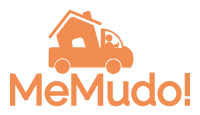
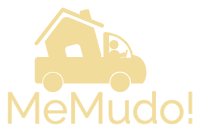
Cambiando colores v1

diff --git a/src/pages/HomeOferente/HomeOferente.jsx b/src/pages/HomeOferente/HomeOferente.jsx
@@ -190,7 +190,7 @@ export default function Empresa(){
                     </div>
                 </div>
 
-                <div style={{display:"flex",borderRadius:"5px",backgroundColor:"#A6836F",flexDirection:"column",margin:"20px",alignItems:"flex-start",height:"60vh",width:"60vw", boxSizing:"border-box"}}>
+                <div style={{display:"flex",borderRadius:"5px",backgroundColor:"#5B5772",flexDirection:"column",margin:"20px",alignItems:"flex-start",height:"60vh",width:"60vw", boxSizing:"border-box"}}>
                     <div style={{display:"flex", flexDirection:"row", minWidth:"100%", minHeight:"20%"}}>
                         <CheckCircleIcon style={{color:"#F2DC9B",fontSize:35}}></CheckCircleIcon> <div style={{color:"white",fontSize:30}}>Caracteristicas</div>
                     </div>
@@ -198,30 +198,30 @@ export default function Empresa(){
                         <Box sx={{ flexGrow: 1 }}>
                             <Grid container spacing={3}>
                                 <Grid item xs={8}>
-                                    <Item style={{backgroundColor:"#F2DC9B"}}>Caracteristica 1</Item>
+                                    <Item style={{backgroundColor:"#D9D9D9"}}>Caracteristica 1</Item>
                                 </Grid>
                                 <Grid item xs={4}>
-                                    <Item style={{backgroundColor:"#F2DC9B"}}>Caracteristica 2</Item>
+                                    <Item style={{backgroundColor:"#D9D9D9"}}>Caracteristica 2</Item>
                                 </Grid>
                                 <Grid item xs={4}>
-                                    <Item style={{backgroundColor:"#F2DC9B"}}>Caracteristica 3</Item>
+                                    <Item style={{backgroundColor:"#D9D9D9"}}>Caracteristica 3</Item>
                                 </Grid>
                                 <Grid item xs={4}>
-                                    <Item style={{backgroundColor:"#F2DC9B"}}>Caracteristica 4</Item>
+                                    <Item style={{backgroundColor:"#D9D9D9"}}>Caracteristica 4</Item>
                                 </Grid>
                                 <Grid item xs={4}>
-                                    <Item style={{backgroundColor:"#F2DC9B"}}>Caracteristica 5</Item>
+                                    <Item style={{backgroundColor:"#D9D9D9"}}>Caracteristica 5</Item>
                                 </Grid>
                                 <Grid item xs="auto">
-                                    <Item style={{backgroundColor:"#F2DC9B"}}>Caracteristica 3</Item>
+                                    <Item style={{backgroundColor:"#D9D9D9"}}>Caracteristica 3</Item>
                                 </Grid>
                                 <Grid item xs= {8}>
-                                    <Item style={{backgroundColor:"#F2DC9B"}}>Caracteristica 3</Item>
+                                    <Item style={{backgroundColor:"#D9D9D9"}}>Caracteristica 3</Item>
                                 </Grid>
                             </Grid>
                         </Box>
                     </div>
-                    <div style={{display:"flex",minWidth:"100%", minHeight:"20%", justifyContent:"end", alignItems:"center", boxSizing:"border-box", paddingRight:"10px"}}><Button variant="contained" style={{backgroundColor:"#FD841F"}} size="large" endIcon={<EditIcon />} onClick={handleClickOpenEditar}>Editar</Button></div>
+                    <div style={{display:"flex",minWidth:"100%", minHeight:"20%", justifyContent:"end", alignItems:"center", boxSizing:"border-box", paddingRight:"10px"}}><Button variant="contained" style={{backgroundColor:"#F7D794", color:"black"}} size="large" endIcon={<EditIcon />} onClick={handleClickOpenEditar}>Editar</Button></div>
                     <Dialog open={openEditar} onClose={handleCloseEditar} maxWidth="sm">
                         <DialogTitle>Editar informacion de la empresa</DialogTitle>
                         <DialogContent>
@@ -338,28 +338,28 @@ export default function Empresa(){
                     </Dialog>
                 </div>
             </div>
-            <div style={{display:"flex",margin:"20px",backgroundColor:"#A6836F",justifyContent:"center",alignItems:"center",width:"90vw",height:150,borderRadius:"5px",color:"white",fontSize:40}} >
+            <div style={{display:"flex",margin:"20px",backgroundColor:"#5B5772",justifyContent:"center",alignItems:"center",width:"90vw",height:150,borderRadius:"5px",color:"white",fontSize:40}} >
                 Descripcion de la empresa
             </div>
             <div style={{display:"flex",flexDirection:"row",justifyContent:"center",flexWrap:"wrap",alignItems:"center", marginLeft:"30px"}}>
-                <div style={{display:"flex",backgroundColor:"#F2DC9B",width:600,height:250,borderRadius:"5px",margin:"20px",flexDirection:"row",justifyContent:"space-between",}} >
+                <div style={{display:"flex",backgroundColor:"#8D8D9B",width:600,height:250,borderRadius:"5px",margin:"20px",flexDirection:"row",justifyContent:"space-between",}} >
                 <AccountCircleIcon style={{color:"red",fontSize:50}}></AccountCircleIcon>
                 <Rating/>
                 </div>
-                <div style={{display:"flex",backgroundColor:"#F2DC9B",width:600,height:250,borderRadius:"5px",margin:"20px",flexDirection:"row",justifyContent:"space-between",}} >
+                <div style={{display:"flex",backgroundColor:"#8D8D9B",width:600,height:250,borderRadius:"5px",margin:"20px",flexDirection:"row",justifyContent:"space-between",}} >
                 <AccountCircleIcon style={{color:"red",fontSize:50}}></AccountCircleIcon>
                 <Rating/>
                 </div>
-                <div style={{display:"flex",backgroundColor:"#F2DC9B",width:600,height:250,borderRadius:"5px",margin:"20px",flexDirection:"row",justifyContent:"space-between",}} >
+                <div style={{display:"flex",backgroundColor:"#8D8D9B",width:600,height:250,borderRadius:"5px",margin:"20px",flexDirection:"row",justifyContent:"space-between",}} >
                 <AccountCircleIcon style={{color:"red",fontSize:50}}></AccountCircleIcon>
                 <Rating/>
                 </div>
-                <div style={{display:"flex",backgroundColor:"#F2DC9B",width:600,height:250,borderRadius:"5px",margin:"20px",flexDirection:"row",justifyContent:"space-between",}} >
+                <div style={{display:"flex",backgroundColor:"#8D8D9B",width:600,height:250,borderRadius:"5px",margin:"20px",flexDirection:"row",justifyContent:"space-between",}} >
                 <AccountCircleIcon style={{color:"red",fontSize:50}}></AccountCircleIcon>
                 <Rating/>
                 </div>
             </div>
-            <div style={{display:"flex",backgroundColor:"#A6836F",margin:"20px",width:"90vw",height:150,borderRadius:"5px",color:"white",flexDirection:"row",alignItems:"center",justifyContent:"space-evenly",}} >
+            <div style={{display:"flex",backgroundColor:"#5B5772",margin:"20px",width:"90vw",height:150,borderRadius:"5px",color:"white",flexDirection:"row",alignItems:"center",justifyContent:"space-evenly",}} >
                 <div><PhoneIcon/>Telefono</div>
                 <div><HomeIcon/>Direccion</div>
                 <div><MailIcon/>Mail</div>

diff --git a/src/pages/InfoEmpresa/InfoEmpresa.jsx b/src/pages/InfoEmpresa/InfoEmpresa.jsx
@@ -249,7 +249,7 @@ export default function Empresa(){
                     </div>
                 </div>
 
-                <div style={{display:"flex",borderRadius:"5px",backgroundColor:"#A6836F",flexDirection:"column",margin:"20px",alignItems:"flex-start",height:"60vh",width:"60vw", boxSizing:"border-box"}}>
+                <div style={{display:"flex",borderRadius:"5px",backgroundColor:"#5B5772",flexDirection:"column",margin:"20px",alignItems:"flex-start",height:"60vh",width:"60vw", boxSizing:"border-box"}}>
                     <div style={{display:"flex", flexDirection:"row", minWidth:"100%", minHeight:"20%"}}>
                         <CheckCircleIcon style={{color:"#F2DC9B",fontSize:35}}></CheckCircleIcon> <div style={{color:"white",fontSize:30}}>Caracteristicas</div>
                     </div>
@@ -257,32 +257,32 @@ export default function Empresa(){
                     <Box sx={{ flexGrow: 1 }}>
                             <Grid container spacing={3}>
                                 <Grid item xs={8}>
-                                    <Item style={{backgroundColor:"#F2DC9B"}}>Caracteristica 1</Item>
+                                    <Item style={{backgroundColor:"#D9D9D9", color:"black"}}>Caracteristica 1</Item>
                                 </Grid>
                                 <Grid item xs={4}>
-                                    <Item style={{backgroundColor:"#F2DC9B"}}>Caracteristica 2</Item>
+                                    <Item style={{backgroundColor:"#D9D9D9", color:"black"}}>Caracteristica 2</Item>
                                 </Grid>
                                 <Grid item xs={4}>
-                                    <Item style={{backgroundColor:"#F2DC9B"}}>Caracteristica 3</Item>
+                                    <Item style={{backgroundColor:"#D9D9D9", color:"black"}}>Caracteristica 3</Item>
                                 </Grid>
                                 <Grid item xs={4}>
-                                    <Item style={{backgroundColor:"#F2DC9B"}}>Caracteristica 4</Item>
+                                    <Item style={{backgroundColor:"#D9D9D9", color:"black"}}>Caracteristica 4</Item>
                                 </Grid>
                                 <Grid item xs={4}>
-                                    <Item style={{backgroundColor:"#F2DC9B"}}>Caracteristica 5</Item>
+                                    <Item style={{backgroundColor:"#D9D9D9", color:"black"}}>Caracteristica 5</Item>
                                 </Grid>
                                 <Grid item xs="auto">
-                                    <Item style={{backgroundColor:"#F2DC9B"}}>Caracteristica 3</Item>
+                                    <Item style={{backgroundColor:"#D9D9D9", color:"black"}}>Caracteristica 3</Item>
                                 </Grid>
                                 <Grid item xs= {8}>
-                                    <Item style={{backgroundColor:"#F2DC9B"}}>Caracteristica 3</Item>
+                                    <Item style={{backgroundColor:"#D9D9D9", color:"black"}}>Caracteristica 3</Item>
                                 </Grid>
                             </Grid>
                         </Box>
                     </div>
                     <div style={{minWidth:"100%", minHeight:"20%", boxSizing:"border-box", display:"flex", flexDirection:"row", justifyContent:"end"}}>
-                        <div style={{display:"flex",minWidth:"20%", minHeight:"10%", justifyContent:"end", alignItems:"center", boxSizing:"border-box", paddingRight:"10px"}}><Button variant="contained" style={{backgroundColor:"#FD841F"}} size="large" endIcon={<AttachMoneyIcon />} onClick={toggleDrawer('bottom', true)}>Simular costos</Button></div>
-                        <div style={{display:"flex",minWidth:"20%", minHeight:"10%", justifyContent:"end", alignItems:"center", boxSizing:"border-box", paddingRight:"10px"}}><Button variant="contained" style={{backgroundColor:"#FD841F"}} size="large" endIcon={<AddShoppingCartIcon /> } onClick={handleClickOpenContratar}>Contratar</Button></div>
+                        <div style={{display:"flex",minWidth:"20%", minHeight:"10%", justifyContent:"end", alignItems:"center", boxSizing:"border-box", paddingRight:"10px"}}><Button variant="contained" style={{backgroundColor:"#F7D794", color:"black"}} size="large" endIcon={<AttachMoneyIcon />} onClick={toggleDrawer('bottom', true)}>Simular costos</Button></div>
+                        <div style={{display:"flex",minWidth:"20%", minHeight:"10%", justifyContent:"end", alignItems:"center", boxSizing:"border-box", paddingRight:"10px"}}><Button variant="contained" style={{backgroundColor:"#F7D794", color:"black"}} size="large" endIcon={<AddShoppingCartIcon /> } onClick={handleClickOpenContratar}>Contratar</Button></div>
                         <Dialog
                             fullScreen={fullScreen}
                             open={openContratar}
@@ -312,7 +312,7 @@ export default function Empresa(){
 
             </div>
 
-            <div style={{display:"flex",margin:"20px",backgroundColor:"#A6836F",justifyContent:"center",alignItems:"center",width:"90vw",height:150,borderRadius:"5px",color:"white",fontSize:40}} >
+            <div style={{display:"flex",margin:"20px",backgroundColor:"#5B5772",justifyContent:"center",alignItems:"center",width:"90vw",height:150,borderRadius:"5px",color:"white",fontSize:40}} >
             {location.state.descripcion}
             </div>
             <div style={{display:"flex",flexDirection:"row",justifyContent:"flex-start",flexWrap:"wrap",alignItems:"center", marginLeft:"30px"}}>
@@ -323,7 +323,7 @@ export default function Empresa(){
                 <Comentario usuario="Gabriel Torres" texto="Despues de Cordanzas, considero que esta es la mejor empresa para hacer una mudanza." puntuacion={4}/>
                 <Comentario usuario="Franco Vercesi" texto="Me sorprende ver tantos comentarios positivos. En mi caso no fue una experiencia tan amena. Quizás no era su día." puntuacion={2}/>
             </div>
-            <div style={{display:"flex",backgroundColor:"#A6836F",margin:"20px",width:"90vw",height:150,borderRadius:"5px",color:"white",flexDirection:"row",alignItems:"center",justifyContent:"space-evenly",}} >
+            <div style={{display:"flex",backgroundColor:"#5B5772",margin:"20px",width:"90vw",height:150,borderRadius:"5px",color:"white",flexDirection:"row",alignItems:"center",justifyContent:"space-evenly",}} >
                 <div><PhoneIcon/>{location.state.telefono}</div>
                 <div><HomeIcon/>{location.state.direccion}</div>
                 <div><MailIcon/>{location.state.mail}</div>

diff --git a/src/pages/Registro/Registro.jsx b/src/pages/Registro/Registro.jsx
@@ -99,10 +99,10 @@ function Registro(props) {
                         <div className="contenido-registro">
                         <text className="texto">Seleccioná tu perfil:</text>
                             <Dropdown className="drop">
-                                <Dropdown.Toggle className="toggle" id="dropdown-basic" >
+                                <Dropdown.Toggle className="toggle" id="dropdown-basic" style={{backgroundColor:"#F7D794"}} >
                                     {texto}
                                 </Dropdown.Toggle>
-                                <Dropdown.Menu className="item">
+                                <Dropdown.Menu className="item" style={{backgroundColor:"#F7D794"}}>
                                     <Dropdown.Item href="#/profesor" onClick={setOferente}>Oferente</Dropdown.Item>
                                     <Dropdown.Item href="#/alumno" onClick={setCliente}>Cliente</Dropdown.Item>
                                 </Dropdown.Menu>
@@ -121,20 +121,20 @@ function Registro(props) {
                                     {error == 4 && <Alert variant="filled" severity="error">La contraseña esta vacia</Alert>}
                                     <text className="texto"> Indique la pregunta secreta y su respuesta: </text>
                                     <Dropdown className="drop">
-                                        <Dropdown.Toggle className="toggle" id="dropdown-basic" >
+                                        <Dropdown.Toggle className="toggle" id="dropdown-basic" style={{backgroundColor:"#F7D794"}} >
                                             {texto2}
                                         </Dropdown.Toggle>
-                                        <Dropdown.Menu className="item">
+                                        <Dropdown.Menu className="item" style={{backgroundColor:"#F7D794"}}>
                                             <Dropdown.Item href="#/action-1" onClick={setPregunta1} onChange={handlePreguntaChange} >¿Como se llamaba/llama su primer mascota?</Dropdown.Item>
                                             <Dropdown.Item href="#/action-2" onClick={setPregunta2} onChange={handlePreguntaChange}>¿Como se llama la calle donde viviste por primera vez?</Dropdown.Item>
                                         </Dropdown.Menu>
                                     </Dropdown>
                                     <TextField id="outlined-basic" label="Respuesta" variant="outlined" onChange={handleRespuestaPreguntaChange} margin="normal" fullWidth />
                                     <div className="botones-registro">
-                                        <button className="botonRegistro btn btn-lg" style={{backgroundColor:"#FD841F", color:"#EEEEEE"}} onClick={verificaciones} >
+                                        <button className="botonRegistro btn btn-lg" style={{backgroundColor:"#F7D794", color:"#black"}} onClick={verificaciones} >
                                             Confirmar
                                         </button>
-                                        <button className="botonRegistro btn btn-lg" style={{backgroundColor:"#FD841F", color:"#EEEEEE"}} onClick={() => props.setTrigger(false)}>
+                                        <button className="botonRegistro btn btn-lg" style={{backgroundColor:"#F7D794", color:"#black"}} onClick={() => props.setTrigger(false)}>
                                             Cancelar
                                         </button>
                                     </div>

diff --git a/src/pages/HomeCliente/HomeCliente.jsx b/src/pages/HomeCliente/HomeCliente.jsx
@@ -24,7 +24,7 @@ export default function Home(){
         <div style={{display:"flex", backgroundColor:"#D9D9D9",flex:1,flexDirection:"column"}}>
           <MenuCliente />
           <div style={{display:"flex", justifyContent:"space-between",flexDirection:"row", borderRadius:"0px 0px 7px 7px",marginLeft:"20px", marginRight:"20px", }}>
-            <div style={{display:"flex", flexDirection:"row", backgroundColor:"#A6836F", borderRadius:"0px 0px 7px 7px"}}>
+            <div style={{display:"flex", flexDirection:"row", backgroundColor:"#5B5772", borderRadius:"0px 0px 7px 7px"}}>
             <div style={{display:'flex'}}>
               <FormControl style={{backgroundColor:"#F2DC9B", borderRadius:"50px"}} sx={ { m: 1, minWidth: 200 }} size="small">
                   <InputLabel  id="demo-simple-select-label">Calificacion</InputLabel>
@@ -76,7 +76,7 @@ export default function Home(){
               </FormControl>
             </div>
             </div>
-            <div style={{backgroundColor:"#A6836F", display:"flex", boxSizing:"border-box", paddingLeft:"10px", paddingRight:"10px", paddingTop:"6px", paddingBottom:"10px", borderRadius:"0px 0px 7px 7px"}}>
+            <div style={{backgroundColor:"#5B5772", display:"flex", boxSizing:"border-box", paddingLeft:"10px", paddingRight:"10px", paddingTop:"6px", paddingBottom:"10px", borderRadius:"0px 0px 7px 7px"}}>
               <Box  style={{display:"flex", backgroundColor:"#F2DC9B", width:250, height:40, borderRadius:"50px", alignItems:"center", flexDirection:"row", paddingLeft:"5px" }}>
                 <SearchIcon />
                 <Input placeholder="Buscar Empresa" />

diff --git a/src/components/Comentario/Comentario.jsx b/src/components/Comentario/Comentario.jsx
@@ -37,22 +37,22 @@ function stringAvatar(name) {
 
 function Comentario({usuario, texto, puntuacion}){
     return(
-        <div style={{display:"flex",backgroundColor:"#F2DC9B",width:600,height:200,borderRadius:"5px",margin:"20px", padding:"20px", flexDirection:"column",justifyContent:"start", boxSizing:"border-box"}} >
+        <div style={{display:"flex",backgroundColor:"#8D8D9B",width:600,height:200,borderRadius:"5px",margin:"20px", padding:"20px", flexDirection:"column",justifyContent:"start", boxSizing:"border-box"}} >
            <div style={{display:"flex", flexDirection:"row", justifyContent:"space-between"}}>
                 <div style={{display:"flex", flexDirection:"row", marginBottom:"20px"}}>
                     <div>
                         <Avatar {...stringAvatar(`${usuario}`)} />
                     </div>
                     <div style={{display:"flex", boxSizing:"border-box", paddingTop:"5px", marginLeft:"10px"}}>
-                        <p>{usuario}</p>
+                        <p style={{color:"white"}}>{usuario}</p>
                     </div>
                 </div>
                 <div>
-                        <Rating name="read-only" value={puntuacion} readOnly />
+                        <Rating name="read-only" value={puntuacion} readOnly style={{color:"#D9D9D9"}} />
                 </div>
            </div>
             <div>
-                <p>{texto}</p>
+                <p style={{color:"white"}}>{texto}</p>
             </div>
         </div>
     )

diff --git a/src/pages/InicioSesion/InicioSesion.jsx b/src/pages/InicioSesion/InicioSesion.jsx
@@ -62,11 +62,11 @@ function InicioSesion(props){
                     {error == 0 && <Alert variant="filled" severity="error">Los datos ingresados no son correctos</Alert>}
                     <br/>
                     <div className="caja-botones">
-                        <button className="boton btn btn-lg" style={{backgroundColor:"#FD841F", color:"#EEEEEE"}} onClick={comprobarUsuario}>
-                        <Link to="/HomeOferente" style={{textDecoration:'none',color:'#EEEEEE'}}>Ingr</Link>
-                        <Link to="/HomeCliente" style={{textDecoration:'none',color:'#EEEEEE'}}>esar</Link>
+                        <button className="boton btn btn-lg" style={{backgroundColor:"#F7D794"}} onClick={comprobarUsuario}>
+                        <Link to="/HomeOferente" style={{textDecoration:'none',color:'black'}}>Ingr</Link>
+                        <Link to="/HomeCliente" style={{textDecoration:'none',color:'black'}}>esar</Link>
                         </button>
-                        <button className="boton btn btn-lg" style={{backgroundColor:"#FD841F", color:"#EEEEEE"}} onClick={() => props.setTrigger(false)}>
+                        <button className="boton btn btn-lg" style={{backgroundColor:"#F7D794", color:"black"}} onClick={() => props.setTrigger(false)}>
                             Cancelar
                         </button>
                     </div> 

diff --git a/src/pages/PerfilCliente/PerfilCliente.jsx b/src/pages/PerfilCliente/PerfilCliente.jsx
@@ -68,7 +68,7 @@ export default function Share(){
                             <div class="contenedor-icon">
                                 <AccountCircleIcon style={{color:"#F2DC9B",fontSize:290}}></AccountCircleIcon>
                             </div>
-                            <div className="contenedor-nombre-mail">
+                            <div className="contenedor-nombre-mail" style={{color:"#D9D9D9"}}>
                                 <h2>James Rodriguez <CreateIcon style={{fontSize:30}}></CreateIcon></h2>
                                 <h4>JRodriguez@gmail.com</h4>
                             </div>
@@ -76,7 +76,7 @@ export default function Share(){
                     </div>
 
                     <div class="contenedor-mudanzas">
-                        <h1>Mis Mudanzas</h1>
+                        <h1 style={{color:"#D9D9D9"}}>Mis Mudanzas</h1>
                         <TableContainer component={Paper}>
                         <Table sx={{ minWidth: 500 }} aria-label="customized table">
                             <TableHead>

diff --git a/src/pages/PerfilCliente/PerfilCliente.css b/src/pages/PerfilCliente/PerfilCliente.css
@@ -8,7 +8,7 @@ div .fondo-perfil{
 }
 div .nav-perfil{
     display:flex;
-    background-color:#734E38;
+    background-color:#5B5772;
     height:10vh;
     flex-direction:row;
     justify-content:space-around;
@@ -20,7 +20,7 @@ div .nav-perfil{
 
 div .logo{
     font-weight: bold;
-    color:#F28D52;
+    color:#5B5772;
     font-size:50px;
     text-decoration: none;
 }
@@ -53,7 +53,7 @@ div .contenedor-editar{
 div .contenedor-icon{
     display:flex;
     border-radius:50px;
-    background-color:#A6836F;
+    background-color:#5B5772;
     flex-direction:row;
     margin:5px;
     align-items:center;
@@ -65,7 +65,7 @@ div .contenedor-icon{
 .contenedor-mudanzas{
     display:flex;
     border-radius:10px;
-    background-color:#F2DC9B;
+    background-color:#5B5772;
     flex-direction:column;
     margin:20px;
     align-items:stretch;
@@ -95,7 +95,7 @@ div .contenedor-icon{
     min-height: 135px;
     width: 50vh;
     box-sizing: border-box;
-    background-color: #A6836F;
+    background-color: #5B5772;
     margin-left: 5px;
 }
 

diff --git a/src/pages/Principal/Principal.jsx b/src/pages/Principal/Principal.jsx
@@ -30,10 +30,10 @@ function App() {
           </section>
           <div className="app-botones">
             <div style={{minWidth:"50%"}}>
-              <button type="button" class="btn btn-lg btn-block w-100" style={{backgroundColor:"#FD841F", color:"#EEEEEE"}} onClick={() => setButtonPopupIniciarSesion(true)}>Iniciar sesion</button>
+              <button type="button" class="btn btn-lg btn-block w-100" style={{backgroundColor:"#F7D794", color:"black"}} onClick={() => setButtonPopupIniciarSesion(true)}>Iniciar sesion</button>
             </div>
             <div style={{minWidth:"50%"}}>
-              <button type="button" class="btn btn-lg btn-block w-100" style={{backgroundColor:"#FD841F", color:"#EEEEEE"}} onClick={() => setButtonPopupRegistrarse(true)}>Registrarse</button>
+              <button type="button" class="btn btn-lg btn-block w-100" style={{backgroundColor:"#F7D794", color:"black"}} onClick={() => setButtonPopupRegistrarse(true)}>Registrarse</button>
             </div>
           </div>
       </div>

diff --git a/src/components/Menu/MenuCliente.jsx b/src/components/Menu/MenuCliente.jsx
@@ -26,7 +26,7 @@ function MenuCliente() {
 
     return(
         <div className="menu">
-            <div style={{display:"flex",backgroundColor:"#734E38",height:"10vh",flexDirection:"row",justifyContent:"space-between" , borderRadius:"5px", marginTop:"20px", marginLeft:"20px", marginRight:"20px",alignItems:"center", paddingLeft:"10px", paddingRight:"10px"}}>
+            <div style={{display:"flex",backgroundColor:"#8D8D9B",height:"10vh",flexDirection:"row",justifyContent:"space-between" , borderRadius:"5px", marginTop:"20px", marginLeft:"20px", marginRight:"20px",alignItems:"center", paddingLeft:"10px", paddingRight:"10px"}}>
               <Link to="/HomeCliente" style={{textDecoration:"none"}}>
                 {/* <h1 style={{fontWeight: "bold",color:"#F28D52",fontSize:50}}>MeMudo!</h1> */}
                 <img src={require('../Menu/MeMudo.png')} style={{height:"10vh", marginTop:"2px", marginLeft:"10px",}} alt='logo'/>

diff --git a/src/components/Menu/MenuOferente.jsx b/src/components/Menu/MenuOferente.jsx
@@ -26,7 +26,7 @@ function MenuCliente() {
 
     return(
         <div className="menu">
-            <div style={{display:"flex",backgroundColor:"#734E38",height:"10vh",flexDirection:"row",justifyContent:"space-between" , borderRadius:"5px",margin:"20px",alignItems:"center", paddingLeft:"10px", paddingRight:"10px"}}>
+            <div style={{display:"flex",backgroundColor:"#8D8D9B",height:"10vh",flexDirection:"row",justifyContent:"space-between" , borderRadius:"5px",margin:"20px",alignItems:"center", paddingLeft:"10px", paddingRight:"10px"}}>
               <Link to="/HomeOferente" style={{textDecoration:"none"}}>
                 {/* <h1 style={{fontWeight: "bold",color:"#F28D52",fontSize:50}}>MeMudo!</h1> */}
                 <img src={require('../Menu/MeMudo.png')} style={{height:"10vh", marginTop:"2px", marginLeft:"10px",}} alt='logo'/>

diff --git a/src/pages/Principal/Principal.css b/src/pages/Principal/Principal.css
@@ -5,7 +5,7 @@
 }
 
 .App{
-    background-color: #EEEEEE;
+    background-color: #8D8D9B;
     overflow:hidden;
 }
 
@@ -49,7 +49,7 @@ h1{
 
 .spikes {
     position: relative;
-    background: #D9D9D9;
+    background: #CACACA;
     height: 30vh;
   }
   .spikes::after {
@@ -62,6 +62,6 @@ h1{
     display: block;
     height: 25px;
     background-size: 25px 100%;
-    background-image: linear-gradient(135deg, #D9D9D9 25%, transparent 25%), linear-gradient(225deg, #D9D9D9 25%, transparent 25%);
+    background-image: linear-gradient(135deg, #CACACA 25%, transparent 25%), linear-gradient(225deg, #CACACA 25%, transparent 25%);
     background-position: 0 0;
   }
